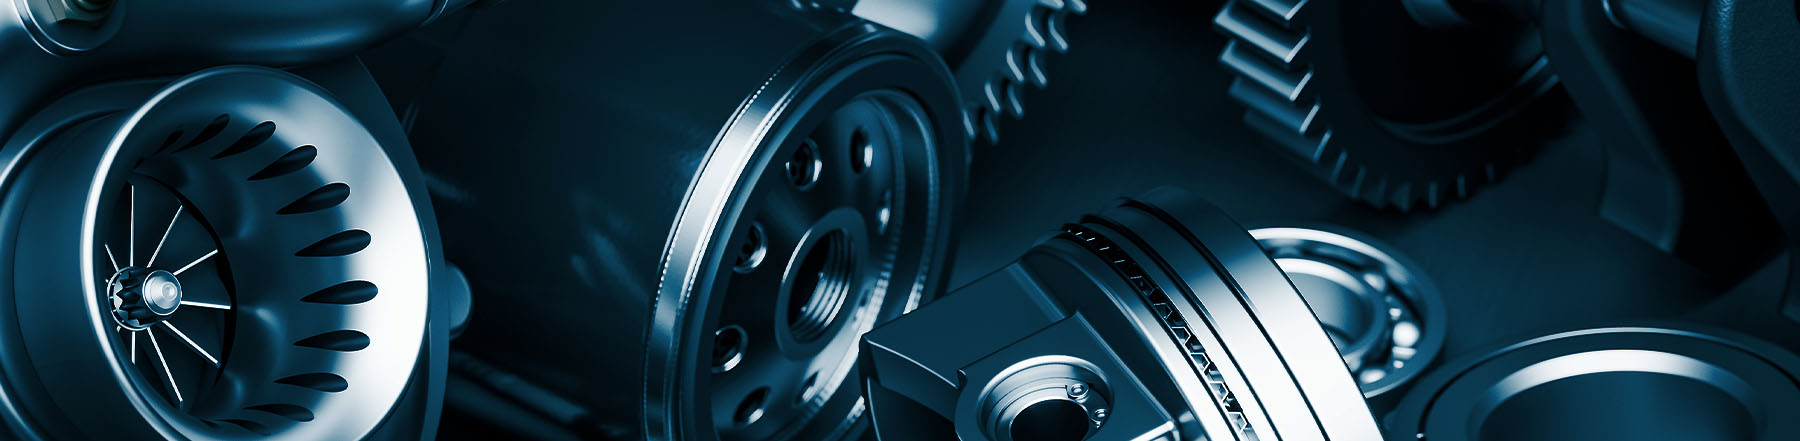
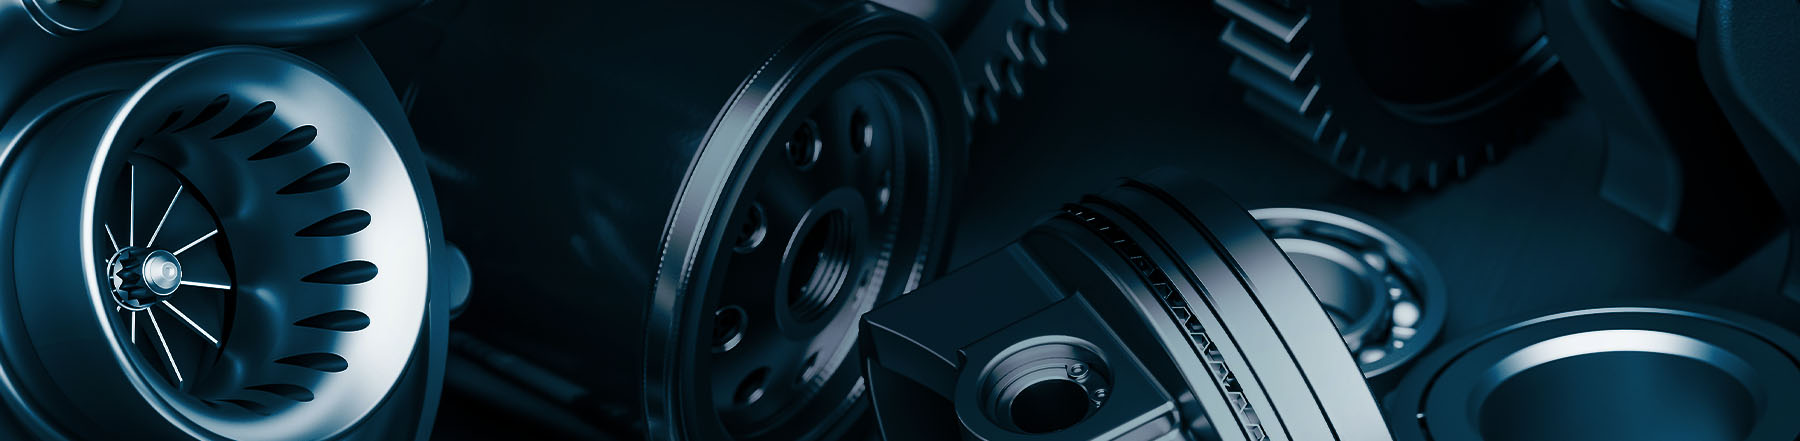
EEOC & Home About Image

diff --git a/public/careers/index.html b/public/careers/index.html
@@ -84,6 +84,7 @@
           <div class="tab-pane fade show active" id="v-pills-why" role="tabpanel" aria-labelledby="v-pills-why-tab">
             <h3>Why Micro Precision?</h3>
             <p>Micro Precision is a company with a history of success, an outstanding present, and a bright future. We're a small company making critical components and assemblies for the United States Navy's Nuclear Submarine fleet. Those products help keep sailors and our country safe. We pride ourselves on providing you with opportunities for personal and professional growth and satisfaction. We encourage continuous improvement – for our products and our employees. </p>
+            <p>At Micro Precision, LLC, we value a diverse, inclusive workforce and we provide equal employment opportunity for all applicants and employees. All qualified applicants for employment will be considered without regard to an individual’s race, color, sex, gender identity, gender expression, religion, age, national origin or ancestry, citizenship, physical or mental disability, medical condition, family care status, marital status, domestic partner status, sexual orientation, genetic information, military or veteran status, or any other basis protected by federal, state or local laws. If you are unable to submit your application because of incompatible assistive technology or a disability, please contact us at <a href="hr@nautilus.com" title="Contact HR" target="_blank">hr@nautilus.com</a>. Micro Precision, LLC will reasonably accommodate qualified individuals with disabilities to the extent required by applicable law.</p>
           </div>
           <div class="tab-pane fade" id="v-pills-upgrading" role="tabpanel" aria-labelledby="v-pills-upgrading-tab">
             <h3>Our Values</h3>
@@ -134,6 +135,7 @@
           <div id="foundryOne" class="accordion-collapse collapse show" aria-labelledby="foundryhead" data-bs-parent="#capabilitiesMobile">
             <div class="accordion-body">
               <p>Micro Precision is a company with a history of success, an outstanding present, and a bright future. We're a small company making critical components and assemblies for the United States Navy's Nuclear Submarine fleet. Those products help keep sailors and our country safe. We pride ourselves on providing you with opportunities for personal and professional growth and satisfaction. We encourage continuous improvement – for our products and our employees. </p>
+              <p>At Micro Precision, LLC, we value a diverse, inclusive workforce and we provide equal employment opportunity for all applicants and employees. All qualified applicants for employment will be considered without regard to an individual’s race, color, sex, gender identity, gender expression, religion, age, national origin or ancestry, citizenship, physical or mental disability, medical condition, family care status, marital status, domestic partner status, sexual orientation, genetic information, military or veteran status, or any other basis protected by federal, state or local laws. If you are unable to submit your application because of incompatible assistive technology or a disability, please contact us at <a href="hr@nautilus.com" title="Contact HR" target="_blank">hr@nautilus.com</a>. Micro Precision, LLC will reasonably accommodate qualified individuals with disabilities to the extent required by applicable law.</p>
             </div>
           </div>
         </div>

diff --git a/public/styles/styles.css b/public/styles/styles.css
@@ -103,8 +103,8 @@ legend { float: none; font-size: inherit; }
 .webp .homeCap { background-image: url("/images/MP_home.jpg"); }
 
 .twoColE { display: grid; grid-template-columns: 1fr 1fr; }
-.no-webp .tceImg { background-image: url("/images/home-about.jpg"); }
-.webp .tceImg { background-image: url("/images/home-about.webp"); }
+.no-webp .tceImg { background-image: url("/images/MP_Home_About.jpg"); }
+.webp .tceImg { background-image: url("/images/MP_Home_About.webp"); }
 .tceImg { background-size: cover; background-position: center center; }
 .tceContent { background-color: var(--darkTeal); padding: 5em 12%; }
 	.tceContent h1 { color: #fff; }

diff --git a/src/styles/styles.css b/src/styles/styles.css
@@ -103,8 +103,8 @@ legend { float: none; font-size: inherit; }
 .webp .homeCap { background-image: url("/images/MP_home.jpg"); }
 
 .twoColE { display: grid; grid-template-columns: 1fr 1fr; }
-.no-webp .tceImg { background-image: url("/images/home-about.jpg"); }
-.webp .tceImg { background-image: url("/images/home-about.webp"); }
+.no-webp .tceImg { background-image: url("/images/MP_Home_About.jpg"); }
+.webp .tceImg { background-image: url("/images/MP_Home_About.webp"); }
 .tceImg { background-size: cover; background-position: center center; }
 .tceContent { background-color: var(--darkTeal); padding: 5em 12%; }
 	.tceContent h1 { color: #fff; }
